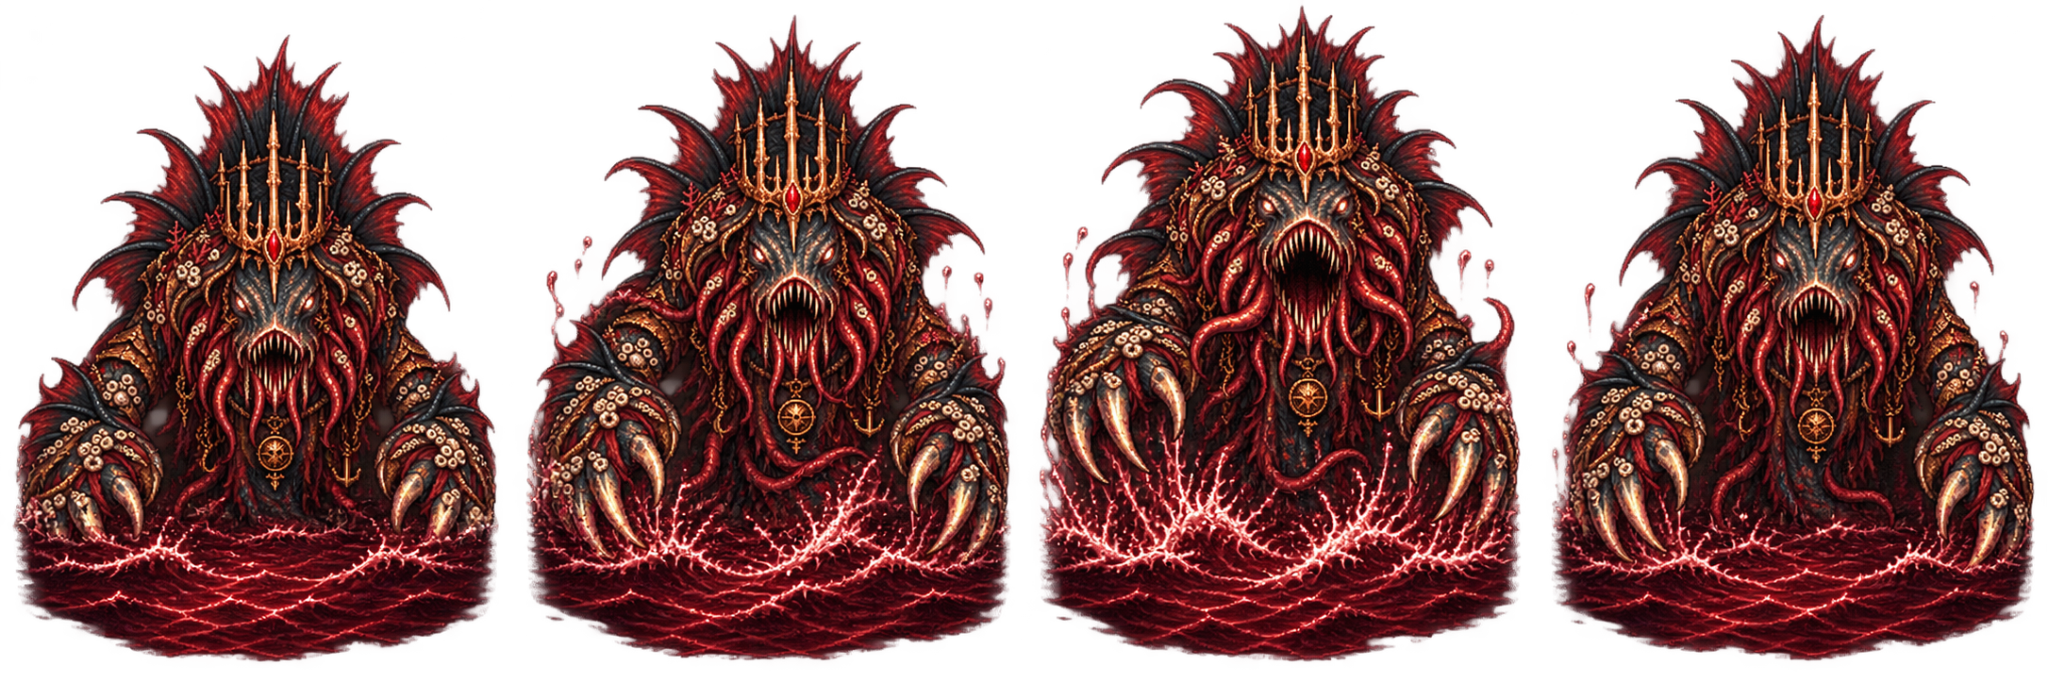
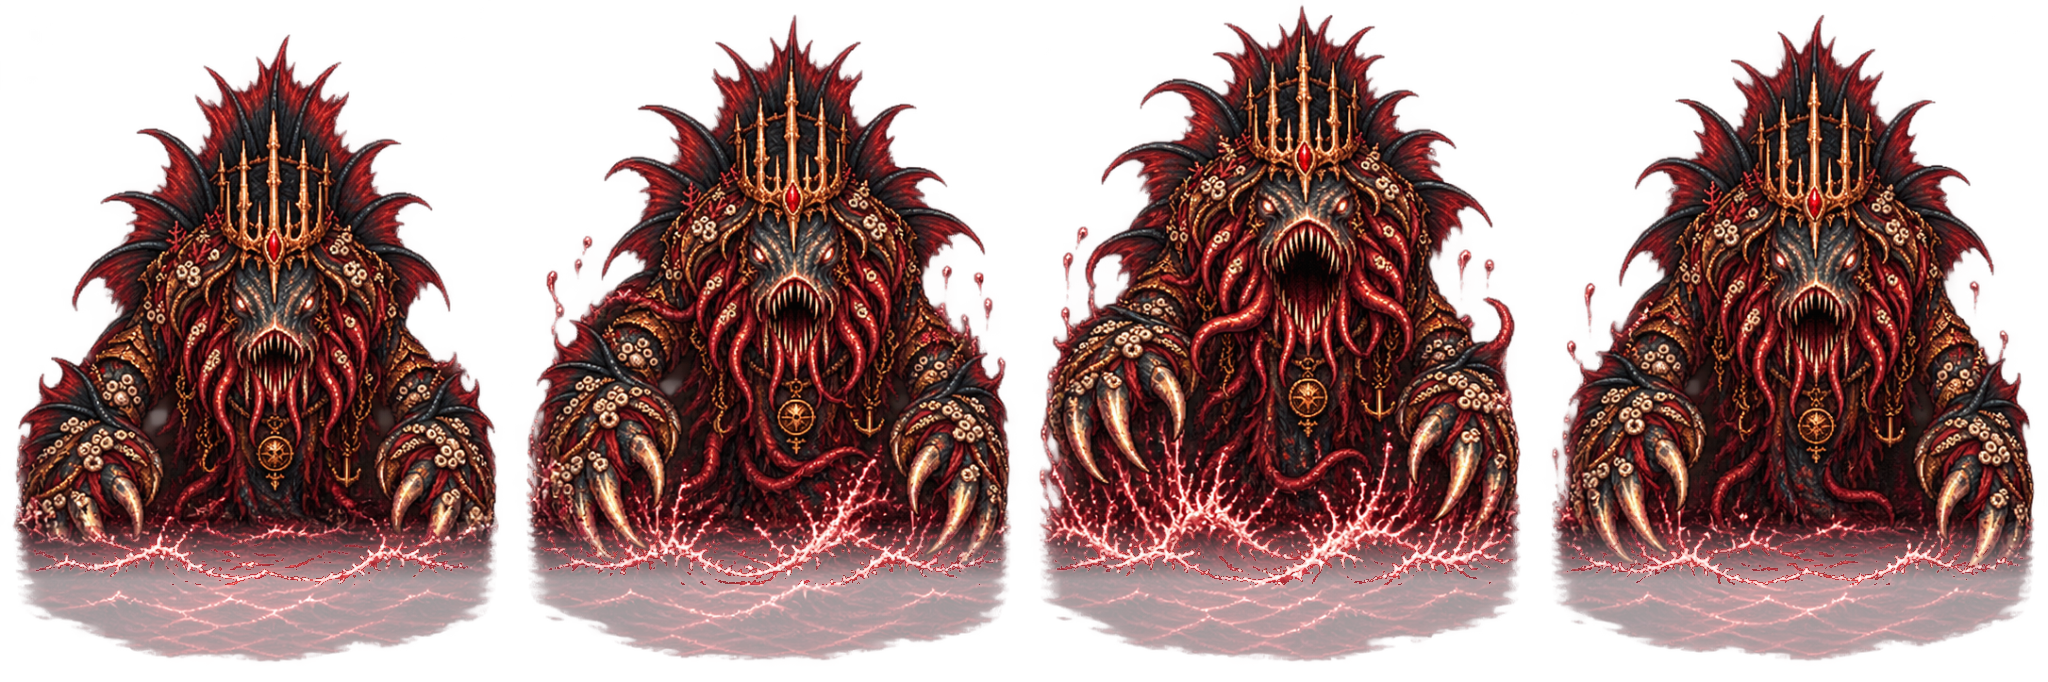
asset: replace Dagon king sheet and connect canonical art

Changed region(s): [[0.0, 0.7698, 1.0, 0.9853]]

diff --git a/sw.js b/sw.js
@@ -1,4 +1,4 @@
-const CACHE_NAME='omar-mar-de-sangue-v92-dagon-eye-submerso-20261028';
+const CACHE_NAME='omar-mar-de-sangue-v93-dagon-big-submerso-20261028';
 const ASSETS=["./","./index.html","./asset-audit.html","./PwaStatus.js","./Game.js","./SeaOceanV3.js","./assets/tiles/sea-v3/sea_chunk_01_base.webp","./assets/tiles/sea-v3/sea_chunk_02_base.webp","./assets/tiles/sea-v3/sea_chunk_03_base.webp","./assets/tiles/sea-v3/sea_chunk_04_base.webp","./SeaEffects.js","./SeaWeather.js","./SeaMenus.js","./SeaPoliticalEvents.js","./SeaIslands.js","./SeaAtlas.js","./SeaGunnery.js","./SeaImpulse.js","./SeaCannonChargeFx.js","./SeaContracts.js","./SeaPerformance.js","./SeaPerformanceCompare.js","./SeaPixelPolish.js","./SeaSaveTransfer.js","./PortUI.js","./PortUI.css","./PortThemeAbyss.css","./style.css","./phaser.min.js","./manifest.webmanifest","./assets/abyss/coral_horror.png","./assets/abyss/cult_barge.png","./assets/abyss/dagon_eye.png","./assets/abyss/dreadnought.png","./assets/abyss/drowned_choir.png","./assets/abyss/kraken.png","./assets/abyss/kraken_tentacle.png","./assets/abyss/shell_guardian.png","./assets/abyss/temple_turtle.png","./assets/fx/cannon_charge_sparks.png","./assets/fx/blast_0.png","./assets/fx/blast_1.png","./assets/fx/blast_2.png","./assets/fx/blast_3.png","./assets/fx/foam_0.png","./assets/fx/foam_1.png","./assets/fx/foam_2.png","./assets/fx/foam_3.png","./assets/fx/gold_0.png","./assets/fx/gold_1.png","./assets/fx/gold_2.png","./assets/fx/gold_3.png","./assets/fx/muzzle_0.png","./assets/fx/muzzle_1.png","./assets/fx/muzzle_2.png","./assets/fx/muzzle_3.png","./assets/fx/muzzle_4f.png","./assets/fx/shrine_glow.png","./assets/fx/smoke_0.png","./assets/fx/smoke_1.png","./assets/fx/smoke_2.png","./assets/fx/smoke_3.png","./assets/fx/splash_0.png","./assets/fx/splash_1.png","./assets/fx/splash_2.png","./assets/fx/splash_3.png","./assets/fx/splash_4f.png","./assets/fx/splinters_0.png","./assets/fx/splinters_1.png","./assets/fx/splinters_2.png","./assets/fx/splinters_3.png","./assets/fx/splinters_4f.png","./assets/fx/violet_0.png","./assets/fx/violet_1.png","./assets/fx/violet_2.png","./assets/fx/violet_3.png","./assets/islands/island_daegon.png","./assets/islands/island_demeter.png","./assets/islands/island_monastery.png","./assets/islands/island_reef.png","./assets/islands/island_ruin.png","./assets/islands/island_wreck.png","./assets/items/treasure_chest.png","./assets/items/treasure_coin.png","./assets/items/treasure_crate.png","./assets/menu_bg.png","./assets/ui/hud-helm-landscape.png","./assets/ui/hud-combat-landscape.png","./assets/sprites/enemy_admiral.png","./assets/sprites/enemy_bombard.png","./assets/sprites/enemy_corsair.png","./assets/sprites/enemy_court_ship.png","./assets/sprites/enemy_galleon.png","./assets/sprites/enemy_ram.png","./assets/sprites/enemy_spectral.png","./assets/player/mar_de_sangue_navio_proa_baixo_20_evolucoes.png","./assets/tiles/sea_base.png","./assets/tiles/sea_blood.png","./assets/tiles/sea_foam.png","./assets/tiles/sea_mist.png","./assets/ui/command_console.png","./assets/ui/command_console_analog.png","./assets/v15/beast_coral.png","./assets/v15/dagon_emerging.png","./assets/v15/beast_eel_swim.webp","./assets/v15/beast_drowned.png","./assets/v15/beast_kraken.png","./assets/v15/beast_tentacle.png","./assets/v15/fx_frame_00.png","./assets/v15/fx_frame_01.png","./assets/v15/fx_frame_02.png","./assets/v15/fx_frame_03.png","./assets/v15/fx_frame_04.png","./assets/v15/fx_frame_05.png","./assets/v15/fx_frame_06.png","./assets/v15/fx_frame_07.png","./assets/v15/fx_frame_08.png","./assets/v15/fx_frame_09.png","./assets/v15/fx_frame_10.png","./assets/v15/fx_frame_11.png","./assets/v15/fx_frame_12.png","./assets/v15/fx_frame_13.png","./assets/v15/fx_frame_14.png","./assets/v15/fx_frame_15.png","./assets/v15/ship_admiral.png","./assets/v15/ship_blood.png","./assets/v15/ship_chapel.png","./assets/v15/ship_flagship.png","./assets/v15/ship_merchant.png","./assets/v15/ship_ram.png","./assets/v15/ship_royal.png","./assets/v15/ship_sloop.png","./assets/v15/ship_spectral.png","./assets/v15/ship_wrecked.png","./icons/icon-192.png","./icons/icon-512.png"];
 self.addEventListener('install',event=>event.waitUntil(caches.open(CACHE_NAME).then(c=>c.addAll(ASSETS)).then(()=>self.skipWaiting())));
 self.addEventListener('activate',event=>event.waitUntil(caches.keys().then(keys=>Promise.all(keys.filter(k=>k!==CACHE_NAME && k.startsWith('omar-mar-de-sangue')).map(k=>caches.delete(k)))).then(()=>self.clients.claim())));

diff --git a/Game.js b/Game.js
@@ -269,7 +269,7 @@ class SeaBoot extends Phaser.Scene {
         this.load.image('boss-kraken', 'assets/abyss/kraken.png');
         // Arauto de Dagon: spritesheet fornecida pelo criador (4 x 512×682).
         // Carregada uma vez; ele não altera a orientação visual ao navegar.
-        this.load.spritesheet('dagon-animated', 'assets/v15/dagon_emerging.png', {
+        this.load.spritesheet('dagon-animated', 'assets/abyss/dagon.png', {
             frameWidth:512, frameHeight:682, endFrame:3
         });
         this.load.image('fx-tentacle', 'assets/abyss/kraken_tentacle.png');
